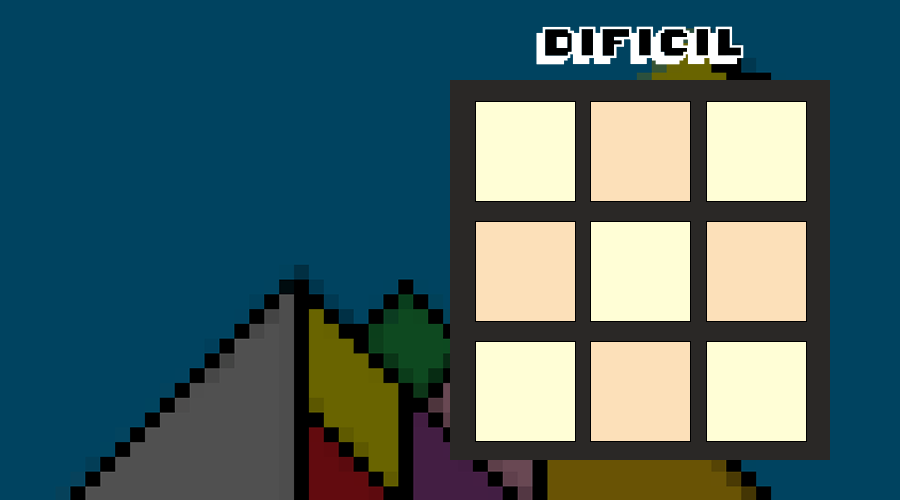
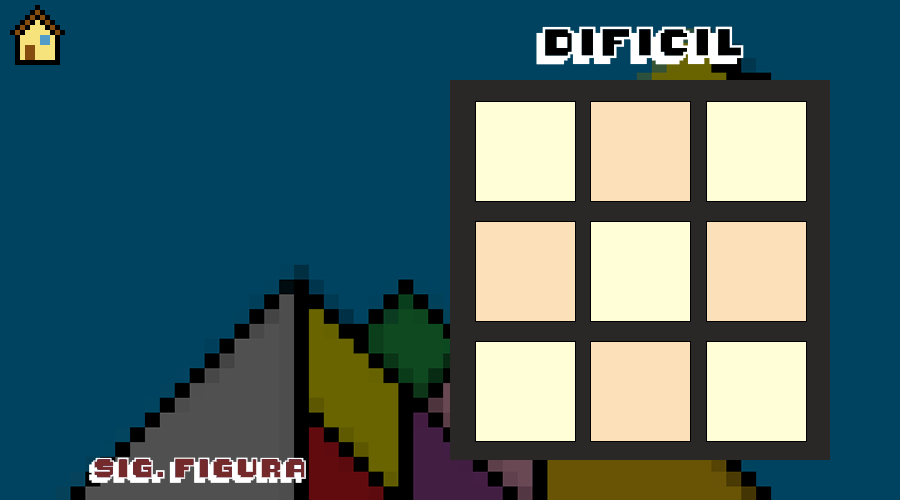
Beta 1.4 Cambios a las coordenadas del boton siguiente figura nivel medio

Changed region(s): [[0.0933, 0.9, 0.3422, 0.99], [0.0, 0.0, 0.0933, 0.15]]

diff --git a/Figuras.py b/Figuras.py
@@ -85,6 +85,7 @@ FY = 813 / 5
 GX = (476, 591, 707)
 GY = (102, 222, 342)
 
+
 # all stages of the game
 class GameStage:
     def __init__(self):
@@ -364,7 +365,7 @@ class GameStage:
                         self.check_figure(7)
                     if 707 <= mouse_pos[0] <= 805 and 342 <= mouse_pos[1] <= 440:
                         self.check_figure(8)
-                    if 166 <= mouse_pos[0] <= 282 and 185 <= mouse_pos[1] <= 497:
+                    if 92 <= mouse_pos[0] <= 306 and 460 <= mouse_pos[1] <= 477:
                         self.check_figure(-1)
         if self.corrects == 9:
             self.stage = 5  # takes to victory
